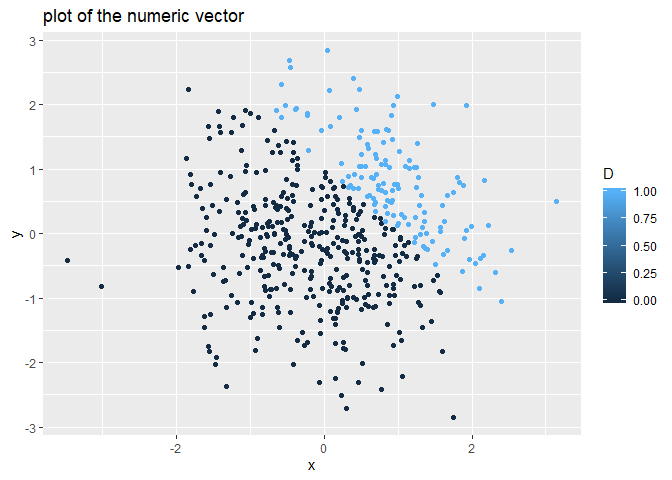
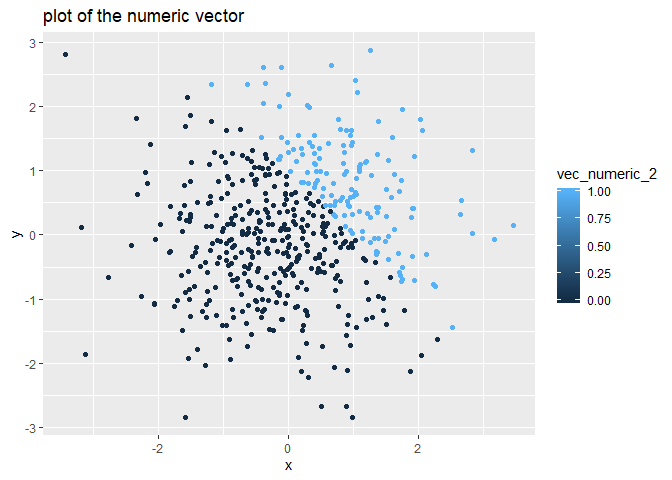
change the vector names in problem 2 into a more descriptive pattern.

diff --git a/p8105_hw1_xl2851.md b/p8105_hw1_xl2851.md
@@ -30,9 +30,9 @@ hw1_df = tibble(
 
 ## 1.2 take the mean of each variable
 
-The mean of the vec\_numeric is -0.0141129
+The mean of the vec\_numeric is -0.3975759
 
-The mean of the vec\_logical is 0.625
+The mean of the vec\_logical is 0.375
 
 The mean of the vec\_char is NA
 
@@ -56,7 +56,8 @@ as.numeric(pull(hw1_df,vec_factor))
 
 Logical and factor vector can be converted into numeric vector while
 character vector cannot. This can explain why character vector can not
-take the mean.
+take the mean.And this cannot explain why factor vector cannot take the
+mean.
 
 ## 1.4 second code crunk:convert and multiply
 
@@ -80,9 +81,9 @@ as.numeric(as.factor(pull(hw1_df,vec_logical)))*(pull(hw1_df,vec_numeric))
 hw11_df=tibble(
   x=rnorm(500, mean=0, sd=1),
   y=rnorm(500, mean=0, sd=1),
-  C=x+y>1,
-  D=as.numeric(C),
-  E=as.factor(C),
+  vec_logical_2=x+y>1,
+  vec_numeric_2=as.numeric(vec_logical_2),
+  vec_factor_2=as.factor(vec_logical_2),
 )
 ```
 
@@ -90,20 +91,21 @@ hw11_df=tibble(
 
 The size of the dataset is 500 rows and 5 columns.
 
-The mean of x is -0.0298025
+The mean of x is 0.0155161
 
-The median of x is -0.0136392
+The median of x is -0.0132821
 
-The standard deviation of the x is 1.0386874
+The standard deviation of the x is 1.0635028
 
-The proportion of cases for which x+y\>1 is 0.194
+The proportion of cases for which x+y\>1 is
+0.288
 
 ## 2.3 plots
 
-### 2.3.1 plot of the logical variable(C)
+### 2.3.1 plot of the logical variable(vec\_logical\_2)
 
 ``` r
-plot_logical=ggplot(hw11_df, aes(x=x, y=y, color=C))+ geom_point()
+plot_logical=ggplot(hw11_df, aes(x=x, y=y, color=vec_logical_2))+ geom_point()
 print(plot_logical + ggtitle("plot of the logical vector"))
 ```
 
@@ -114,22 +116,24 @@ ggsave("scatter_plot.pdf", height = 4, width = 6)
 ```
 
 If “x+y\>1” is true, the dots are in blue. If “x+y\>1” is false, the
-dots are in red.
+dots are in
+red.
 
-### 2.3.2 plot of the numeric variable(D)
+### 2.3.2 plot of the numeric variable(vec\_numeric\_2)
 
 ``` r
-plot_numeric=ggplot(hw11_df, aes(x=x, y=y, color=D))+ geom_point()
+plot_numeric=ggplot(hw11_df, aes(x=x, y=y, color=vec_numeric_2))+ geom_point()
 print(plot_numeric + ggtitle("plot of the numeric vector"))
 ```
 
 ![](p8105_hw1_xl2851_files/figure-gfm/unnamed-chunk-6-1.png)<!-- -->
-When D=0, dots are in dark blue. When D=1, dots are in light blue.
+When D=0, dots are in dark blue. When D=1, dots are in light
+blue.
 
-### 2.3.3 plot of the factor variable(E)
+### 2.3.3 plot of the factor variable(vec\_factor\_2)
 
 ``` r
-plot_factor=ggplot(hw11_df, aes(x=x, y=y, color=E))+ geom_point()
+plot_factor=ggplot(hw11_df, aes(x=x, y=y, color=vec_factor_2))+ geom_point()
 print(plot_factor + ggtitle("plot of the factor vector"))
 ```
 
